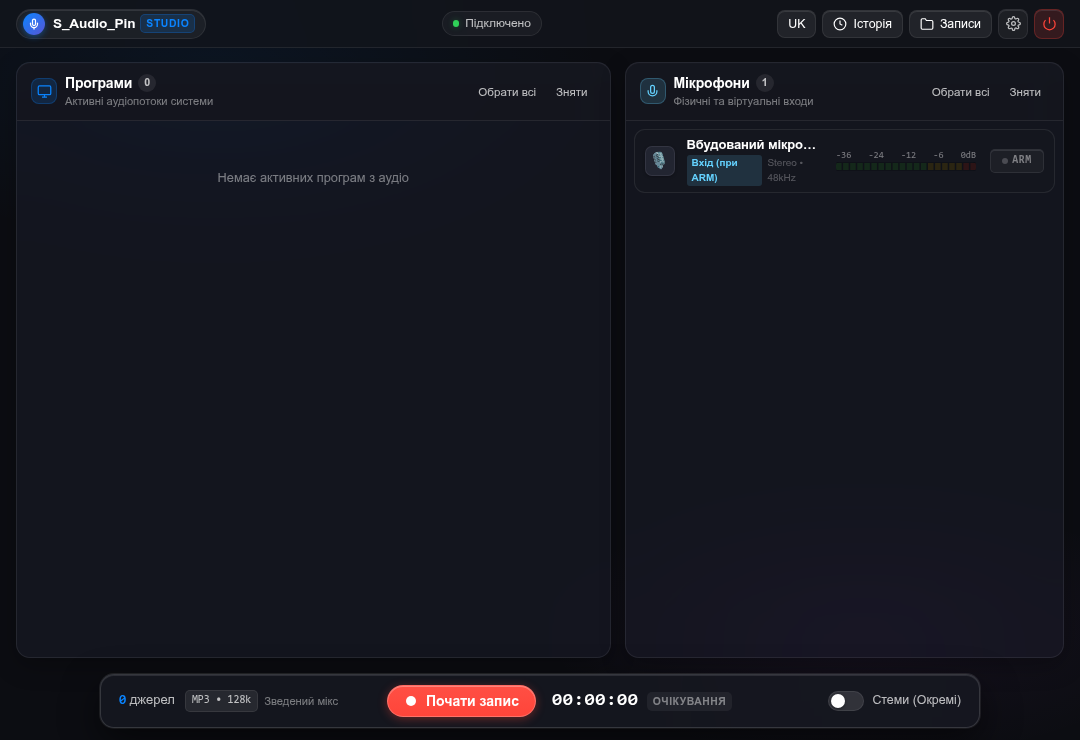
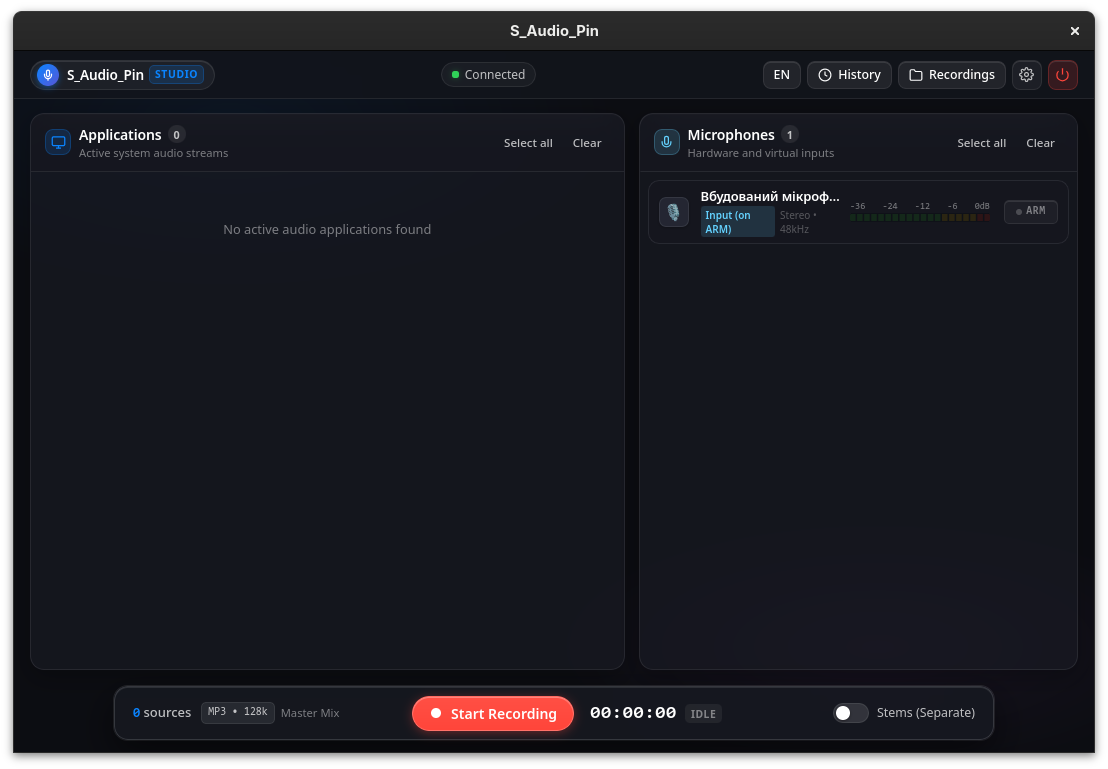
fix: resolve WebKitGTK black screen in offline Flatpak sandbox and add EN screenshots (v0.2.2)

diff --git a/src/s_audio_pin/window.py b/src/s_audio_pin/window.py
@@ -169,18 +169,16 @@ def _install_glib_signal_quit(app) -> None:
     try:
         from gi.repository import GLibUnix
 
-        for sig in (signal.SIGTERM, signal.SIGUSR1):
-            GLibUnix.signal_add(GLib.PRIORITY_DEFAULT, sig, _on_signal)
+        GLibUnix.signal_add(GLib.PRIORITY_DEFAULT, signal.SIGTERM, _on_signal)
         return
     except Exception:
         pass
 
     if hasattr(GLib, "unix_signal_add"):
-        for sig in (signal.SIGTERM, signal.SIGUSR1):
-            try:
-                GLib.unix_signal_add(GLib.PRIORITY_DEFAULT, sig, _on_signal)
-            except Exception:
-                pass
+        try:
+            GLib.unix_signal_add(GLib.PRIORITY_DEFAULT, signal.SIGTERM, _on_signal)
+        except Exception:
+            pass
 
 
 def run_gtk_window(
@@ -218,7 +216,10 @@ def run_gtk_window(
 
         gtk_settings = Gtk.Settings.get_default()
         if gtk_settings is not None:
-            gtk_settings.set_property("gtk-application-prefer-dark-theme", True)
+            if hasattr(Gtk, "InterfaceColorScheme") and gtk_settings.find_property("gtk-interface-color-scheme"):
+                gtk_settings.set_property("gtk-interface-color-scheme", Gtk.InterfaceColorScheme.DARK)
+            else:
+                gtk_settings.set_property("gtk-application-prefer-dark-theme", True)
 
         icon_tmpdir = _setup_icon_theme(app_id, icon_path)
 
@@ -231,6 +232,11 @@ def run_gtk_window(
             _ACTIVE_WIN = win
 
         webview = WebKit.WebView()
+        # Disable proxy portal lookup so 127.0.0.1 loopback loads inside offline Flatpak sandboxes
+        net_session = webview.get_network_session()
+        if net_session is not None:
+            net_session.set_proxy_settings(WebKit.NetworkProxyMode.NO_PROXY, None)
+
         rgba = Gdk.RGBA()
         if rgba.parse("#0c0d12"):
             webview.set_background_color(rgba)
@@ -239,6 +245,18 @@ def run_gtk_window(
         if wk_settings is not None:
             wk_settings.set_enable_smooth_scrolling(True)
             wk_settings.set_enable_javascript(True)
+
+        webview.connect(
+            "load-failed",
+            lambda _view, event, failed_uri, err: logger.warning(
+                "WebKit load failed (%s) for %s: %s", event, failed_uri, err
+            )
+            or False,
+        )
+        webview.connect(
+            "web-process-terminated",
+            lambda _view, reason: logger.warning("WebKit web process terminated: %s", reason),
+        )
 
         webview.load_uri(url)
         win.set_child(webview)

diff --git a/src/s_audio_pin/server/app.py b/src/s_audio_pin/server/app.py
@@ -114,7 +114,7 @@ async def lifespan(app: FastAPI):
         audio_monitor.stop()
 
 
-app = FastAPI(title="S_Audio_Pin_Linux API", version="0.2.1", lifespan=lifespan)
+app = FastAPI(title="S_Audio_Pin_Linux API", version="0.2.2", lifespan=lifespan)
 app.state.api_token = None
 app.state.shutdown_callback = None
 

diff --git a/src/s_audio_pin/__init__.py b/src/s_audio_pin/__init__.py
@@ -1,4 +1,4 @@
 """S_Audio_Pin_Linux — Lightweight Linux Audio Process Monitor & Selective Recorder."""
 
-__version__ = "0.2.1"
+__version__ = "0.2.2"
 APP_ID = "io.github.skakadu007.S_Audio_Pin_Linux"
